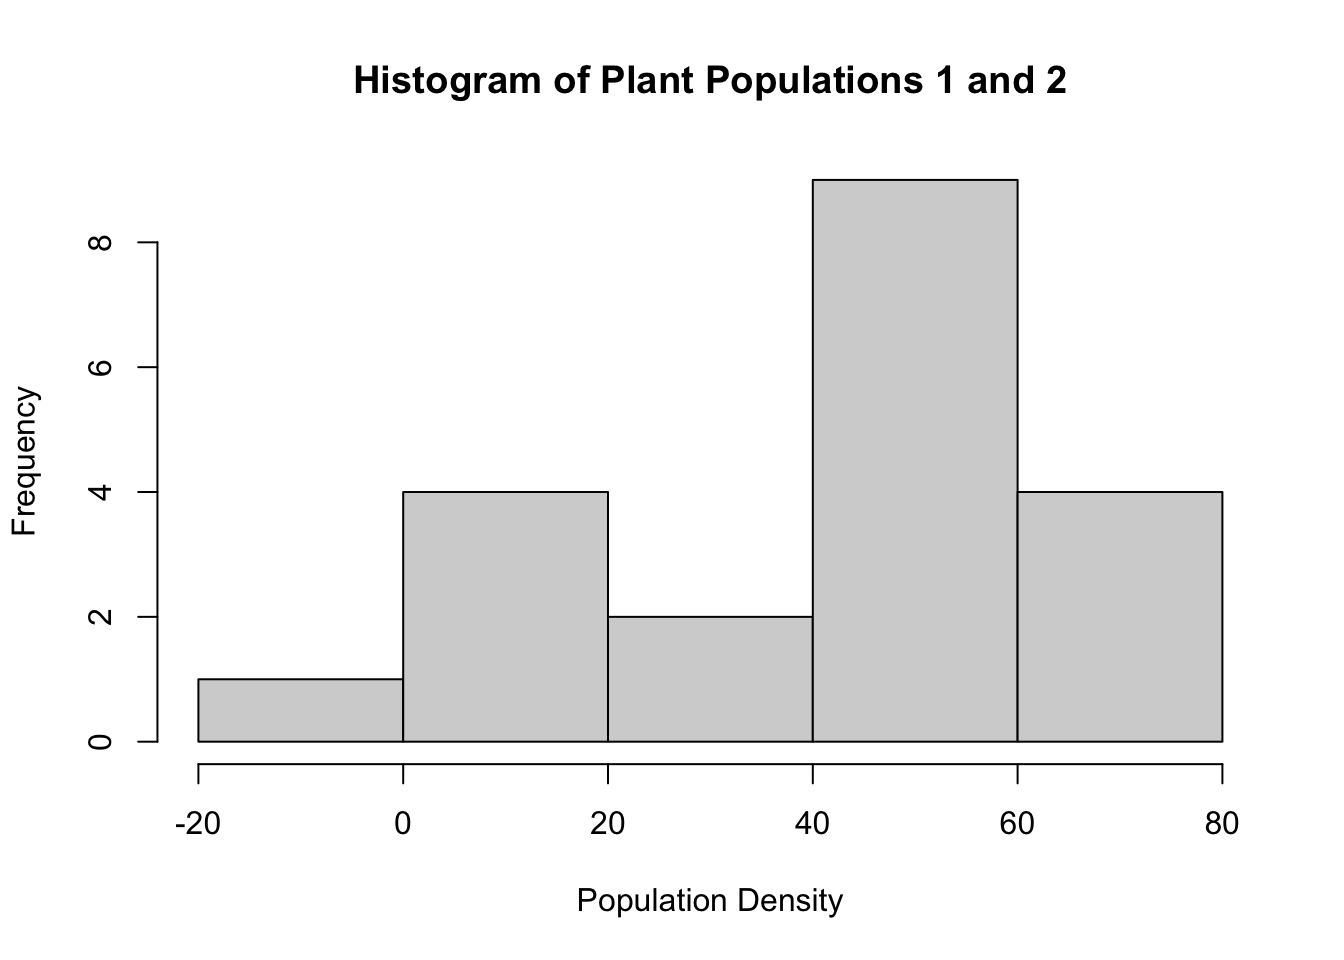
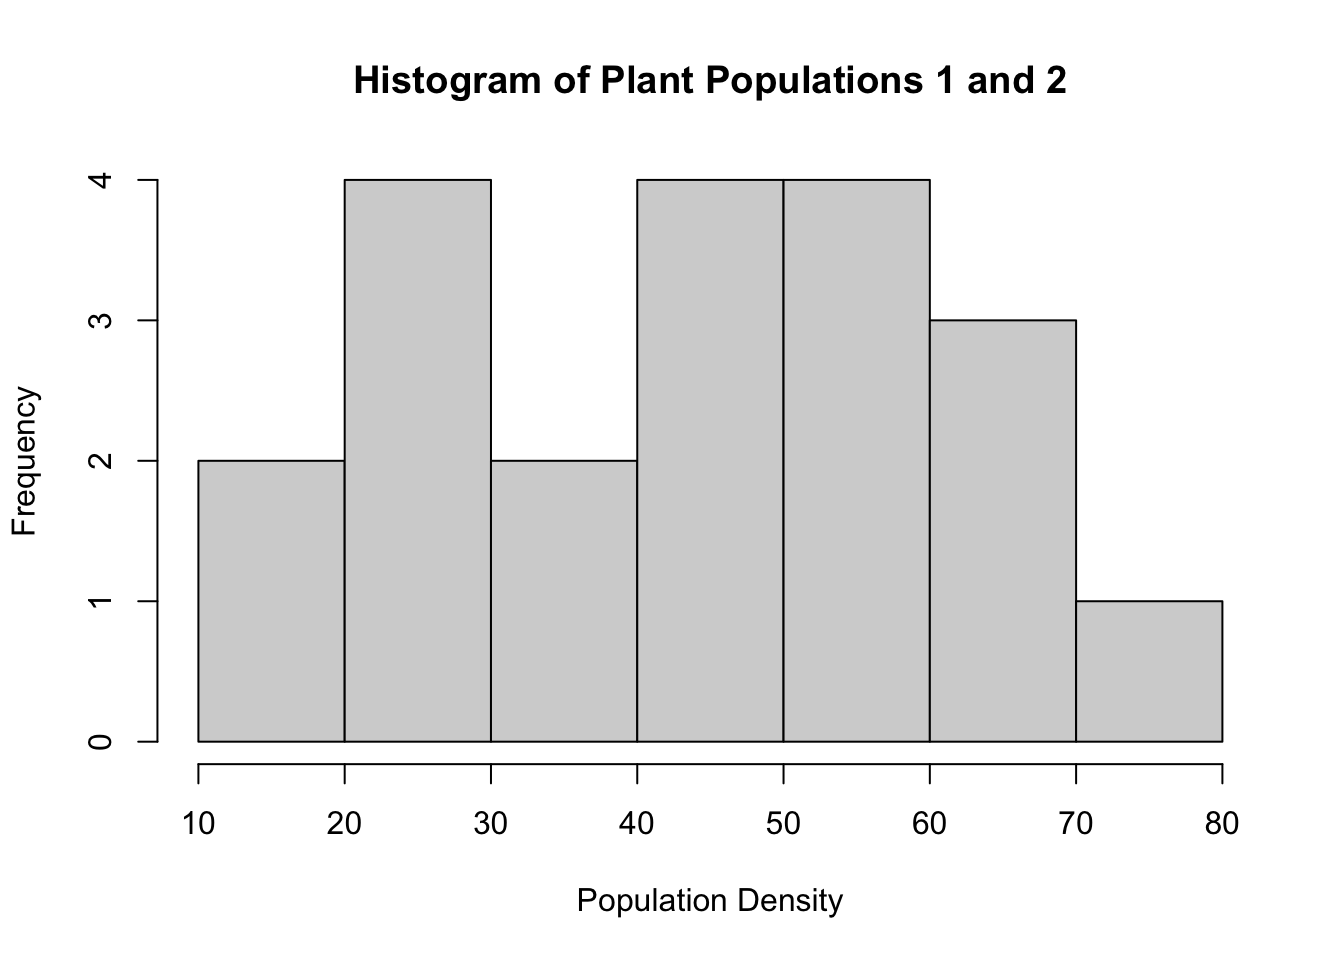
homework 6 and homework links

diff --git a/docs/homework5.html b/docs/homework5.html
@@ -285,19 +285,19 @@ square matrix with these elements. Print out the matrix.</p>
 note how it has changed.</p>
 <pre class="r"><code>print(t(matrix1))</code></pre>
 <pre><code>##      [,1] [,2] [,3]
-## [1,]    7    2    6
-## [2,]    3    9    4
-## [3,]    1    5    8</code></pre>
+## [1,]    6    1    2
+## [2,]    3    9    5
+## [3,]    4    8    7</code></pre>
 <p>Calculate the sum and the mean of the elements in the first row and
 then the last row.</p>
 <pre class="r"><code>mean(matrix1[1,])</code></pre>
-<pre><code>## [1] 3.666667</code></pre>
+<pre><code>## [1] 4.333333</code></pre>
 <pre class="r"><code>sum(matrix1[1,])</code></pre>
-<pre><code>## [1] 11</code></pre>
+<pre><code>## [1] 13</code></pre>
 <pre class="r"><code>mean(matrix1[2,])</code></pre>
-<pre><code>## [1] 5.333333</code></pre>
+<pre><code>## [1] 6</code></pre>
 <pre class="r"><code>sum(matrix1[2,])</code></pre>
-<pre><code>## [1] 16</code></pre>
+<pre><code>## [1] 18</code></pre>
 <p>Read about the eigen() function and use it on your matrix. Look
 carefully at the elements of $values and $vectors in the output. What
 kind of numbers are these?</p>
@@ -305,49 +305,49 @@ kind of numbers are these?</p>
 print(matrix_eigen)</code></pre>
 <pre><code>## eigen() decomposition
 ## $values
-## [1] 15.0+0.000000i  4.5+1.936492i  4.5-1.936492i
+## [1] 15.504256  5.053516  1.442228
 ## 
 ## $vectors
-##              [,1]                  [,2]                  [,3]
-## [1,] 0.3333333+0i  0.2853585+0.3804747i  0.2853585-0.3804747i
-## [2,] 0.6666667+0i -0.6362090+0.0000000i -0.6362090+0.0000000i
-## [3,] 0.6666667+0i  0.4584447-0.3985926i  0.4584447+0.3985926i</code></pre>
+##            [,1]        [,2]       [,3]
+## [1,] -0.4497701 -0.91397383 -0.1365762
+## [2,] -0.7196933  0.39743960 -0.7115224
+## [3,] -0.5289125 -0.08181438  0.6892625</code></pre>
 <p>Dig in with the typeof() function to figure out their type.</p>
 <pre class="r"><code>typeof(matrix_eigen$values)</code></pre>
-<pre><code>## [1] &quot;complex&quot;</code></pre>
+<pre><code>## [1] &quot;double&quot;</code></pre>
 <pre class="r"><code>typeof(matrix_eigen$vectors)</code></pre>
-<pre><code>## [1] &quot;complex&quot;</code></pre>
+<pre><code>## [1] &quot;double&quot;</code></pre>
 <p><u>Question 2:</u> Create a list with the following named
 elements:</p>
 <p>my_matrix, which is a 4 x 4 matrix filled with random uniform
 values</p>
 <pre class="r"><code>my_matrix &lt;- matrix(data=runif(16), nrow=4)
 print(my_matrix)</code></pre>
-<pre><code>##           [,1]       [,2]      [,3]      [,4]
-## [1,] 0.5986630 0.07295954 0.4991994 0.6463780
-## [2,] 0.2466402 0.86540178 0.5887130 0.1806346
-## [3,] 0.9698300 0.57426757 0.3964747 0.9315893
-## [4,] 0.5211286 0.47404587 0.6722006 0.3053773</code></pre>
+<pre><code>##           [,1]      [,2]       [,3]      [,4]
+## [1,] 0.7008155 0.4420031 0.16650708 0.3109693
+## [2,] 0.4269309 0.0419104 0.04525611 0.4891143
+## [3,] 0.9180536 0.7336300 0.81170516 0.1593623
+## [4,] 0.7170330 0.5471026 0.87894588 0.8983267</code></pre>
 <p>my_logical which is a 100-element vector of TRUE or FALSE values. Do
 this efficiently by setting up a vector of random values and then
 applying an inequality to it.</p>
 <pre class="r"><code>my_logical &lt;- (runif(100) &gt; .8)
 print(my_logical)</code></pre>
-<pre><code>##   [1] FALSE FALSE FALSE  TRUE FALSE  TRUE FALSE FALSE FALSE FALSE FALSE FALSE
-##  [13]  TRUE FALSE FALSE FALSE FALSE FALSE FALSE FALSE FALSE FALSE FALSE FALSE
-##  [25] FALSE FALSE FALSE FALSE FALSE FALSE FALSE  TRUE FALSE  TRUE FALSE  TRUE
-##  [37] FALSE  TRUE FALSE FALSE FALSE FALSE FALSE FALSE FALSE FALSE FALSE  TRUE
-##  [49] FALSE FALSE FALSE  TRUE FALSE FALSE  TRUE  TRUE FALSE FALSE FALSE FALSE
-##  [61] FALSE  TRUE FALSE FALSE FALSE FALSE FALSE FALSE FALSE FALSE FALSE  TRUE
-##  [73] FALSE FALSE FALSE FALSE FALSE FALSE FALSE FALSE FALSE FALSE FALSE FALSE
-##  [85] FALSE FALSE  TRUE FALSE FALSE  TRUE FALSE FALSE FALSE FALSE FALSE FALSE
-##  [97] FALSE FALSE FALSE FALSE</code></pre>
+<pre><code>##   [1] FALSE  TRUE FALSE  TRUE FALSE FALSE FALSE  TRUE FALSE FALSE FALSE FALSE
+##  [13] FALSE FALSE  TRUE FALSE  TRUE FALSE FALSE FALSE FALSE FALSE FALSE  TRUE
+##  [25]  TRUE FALSE  TRUE FALSE FALSE FALSE FALSE FALSE FALSE FALSE  TRUE FALSE
+##  [37]  TRUE FALSE FALSE  TRUE FALSE FALSE FALSE FALSE FALSE FALSE FALSE  TRUE
+##  [49] FALSE FALSE FALSE FALSE  TRUE FALSE FALSE  TRUE  TRUE  TRUE  TRUE FALSE
+##  [61] FALSE FALSE FALSE FALSE  TRUE FALSE FALSE FALSE FALSE  TRUE FALSE FALSE
+##  [73] FALSE  TRUE  TRUE FALSE FALSE FALSE FALSE FALSE FALSE FALSE  TRUE FALSE
+##  [85] FALSE FALSE FALSE FALSE FALSE FALSE FALSE FALSE FALSE  TRUE FALSE FALSE
+##  [97]  TRUE FALSE FALSE  TRUE</code></pre>
 <p>my_letters, which is a 26-element vector of all the lower-case
 letters in random order.</p>
 <pre class="r"><code>my_letters &lt;- sample(letters[1:26])
 print(my_letters)</code></pre>
-<pre><code>##  [1] &quot;s&quot; &quot;g&quot; &quot;w&quot; &quot;h&quot; &quot;t&quot; &quot;y&quot; &quot;n&quot; &quot;v&quot; &quot;p&quot; &quot;l&quot; &quot;k&quot; &quot;z&quot; &quot;f&quot; &quot;x&quot; &quot;j&quot; &quot;c&quot; &quot;r&quot; &quot;d&quot; &quot;m&quot;
-## [20] &quot;b&quot; &quot;e&quot; &quot;q&quot; &quot;i&quot; &quot;u&quot; &quot;a&quot; &quot;o&quot;</code></pre>
+<pre><code>##  [1] &quot;g&quot; &quot;b&quot; &quot;p&quot; &quot;x&quot; &quot;v&quot; &quot;d&quot; &quot;c&quot; &quot;w&quot; &quot;r&quot; &quot;n&quot; &quot;t&quot; &quot;z&quot; &quot;j&quot; &quot;h&quot; &quot;s&quot; &quot;f&quot; &quot;i&quot; &quot;y&quot; &quot;l&quot;
+## [20] &quot;k&quot; &quot;a&quot; &quot;o&quot; &quot;q&quot; &quot;u&quot; &quot;e&quot; &quot;m&quot;</code></pre>
 <p>Create a new list, which has the element[2,2] from the matrix, the
 second element of the logical vector, and the second element of the
 letters vector.</p>
@@ -367,7 +367,7 @@ atomic vector with the c() function. What is the data type of this
 vector?</p>
 <pre class="r"><code>combined_elements_vector &lt;- c(new_list[[1]], new_list[[2]], new_list[[3]])
 print(combined_elements_vector)</code></pre>
-<pre><code>## [1] &quot;0.865401779301465&quot; &quot;FALSE&quot;             &quot;g&quot;</code></pre>
+<pre><code>## [1] &quot;0.0419104006141424&quot; &quot;TRUE&quot;               &quot;b&quot;</code></pre>
 <pre class="r"><code>typeof(combined_elements_vector)</code></pre>
 <pre><code>## [1] &quot;character&quot;</code></pre>
 <p><u>Question 3:</u> Create a data frame with the two variables (=
@@ -382,7 +382,7 @@ random rows and replace the numerical values in those rows with NA.</p>
 <p>For the first variable, write a single line of R code to identify
 which rows have the missing values.</p>
 <pre class="r"><code>print(which(is.na(dataframe$my_unis)))</code></pre>
-<pre><code>## [1] 4 7 9</code></pre>
+<pre><code>## [1] 5 7 9</code></pre>
 <p>Re-order the entire data frame to arrange the second variable in
 alphabetical order</p>
 <pre class="r"><code>dataframe[order(dataframe$my_letters),2]</code></pre>
@@ -390,7 +390,7 @@ alphabetical order</p>
 ## [20] &quot;T&quot; &quot;U&quot; &quot;V&quot; &quot;W&quot; &quot;X&quot; &quot;Y&quot; &quot;Z&quot;</code></pre>
 <p>Calculate the column mean for the first variable.</p>
 <pre class="r"><code>mean(dataframe$my_unis, na.rm=TRUE)</code></pre>
-<pre><code>## [1] 5.210672</code></pre>
+<pre><code>## [1] 5.019567</code></pre>
 
 
 

diff --git a/docs/homework6.html b/docs/homework6.html
@@ -281,42 +281,42 @@ northeast.</p>
 plantpopulation2 &lt;- rnorm(n=10, mean = 29, sd = 20)
 summary(plantpopulation1)</code></pre>
 <pre><code>##    Min. 1st Qu.  Median    Mean 3rd Qu.    Max. 
-##   42.03   53.93   58.38   58.40   61.16   75.38</code></pre>
+##   42.73   45.39   54.59   54.92   63.21   71.76</code></pre>
 <pre class="r"><code>summary(plantpopulation2)</code></pre>
 <pre><code>##    Min. 1st Qu.  Median    Mean 3rd Qu.    Max. 
-##  -17.00   11.41   22.39   23.20   42.63   48.36</code></pre>
+##   17.36   25.74   28.68   32.72   35.08   62.78</code></pre>
 <p>Putting it into a data frame:</p>
 <pre class="r"><code>Plant_Populations &lt;- c(plantpopulation1, plantpopulation2)
 Group_Name &lt;- c(rep(&quot;Plant_Population_1&quot;, length(plantpopulation1)),rep(&quot;Plant_Population_2&quot;,length(plantpopulation2)))
 plant_df &lt;- data.frame(Plant_Populations, Group_Name)
 print(plant_df)</code></pre>
 <pre><code>##    Plant_Populations         Group_Name
-## 1          75.382099 Plant_Population_1
-## 2          61.301621 Plant_Population_1
-## 3          67.559977 Plant_Population_1
-## 4          55.914632 Plant_Population_1
-## 5          56.801618 Plant_Population_1
-## 6          60.734744 Plant_Population_1
-## 7          53.271659 Plant_Population_1
-## 8          42.032180 Plant_Population_1
-## 9          51.025192 Plant_Population_1
-## 10         59.960825 Plant_Population_1
-## 11        -17.003907 Plant_Population_2
-## 12         37.141989 Plant_Population_2
-## 13         48.363532 Plant_Population_2
-## 14         10.253705 Plant_Population_2
-## 15         46.989853 Plant_Population_2
-## 16         26.833946 Plant_Population_2
-## 17         44.460685 Plant_Population_2
-## 18         17.937824 Plant_Population_2
-## 19         14.873522 Plant_Population_2
-## 20          2.122048 Plant_Population_2</code></pre>
+## 1           47.25340 Plant_Population_1
+## 2           64.85456 Plant_Population_1
+## 3           44.76664 Plant_Population_1
+## 4           64.29582 Plant_Population_1
+## 5           57.78755 Plant_Population_1
+## 6           59.94322 Plant_Population_1
+## 7           44.38812 Plant_Population_1
+## 8           51.39410 Plant_Population_1
+## 9           71.75648 Plant_Population_1
+## 10          42.73088 Plant_Population_1
+## 11          31.23931 Plant_Population_2
+## 12          62.77712 Plant_Population_2
+## 13          25.32728 Plant_Population_2
+## 14          36.35858 Plant_Population_2
+## 15          51.81686 Plant_Population_2
+## 16          28.57665 Plant_Population_2
+## 17          17.36211 Plant_Population_2
+## 18          26.98898 Plant_Population_2
+## 19          28.77474 Plant_Population_2
+## 20          17.95999 Plant_Population_2</code></pre>
 <p>Analyzing the data by obtaining the mean and standard deviations from
 both plantpopulation1 and plantpopulation2.</p>
 <pre class="r"><code>mean(plant_df$Plant_Populations)</code></pre>
-<pre><code>## [1] 40.79789</code></pre>
+<pre><code>## [1] 43.81762</code></pre>
 <pre class="r"><code>sd(plant_df$Plant_Populations)</code></pre>
-<pre><code>## [1] 24.19825</code></pre>
+<pre><code>## [1] 16.63665</code></pre>
 <p>Plotting the data</p>
 <pre class="r"><code>boxplot(Plant_Populations~Group_Name,data=plant_df, main=&quot;Alpine Plant Population Density&quot;,
         xlab=&quot;Plant Groups&quot;, ylab=&quot;Population Size&quot;)</code></pre>
@@ -336,16 +336,16 @@ for (i in n_iterations) {
   cat(&quot;Iteration=&quot;,i,&quot;P-value=&quot;)
 print(test_result$p.value)
 }</code></pre>
-<pre><code>## Iteration= 1 P-value=[1] 0.0004555947
-## Iteration= 2 P-value=[1] 0.0004555947
-## Iteration= 3 P-value=[1] 0.0004555947
-## Iteration= 4 P-value=[1] 0.0004555947
-## Iteration= 5 P-value=[1] 0.0004555947
-## Iteration= 6 P-value=[1] 0.0004555947
-## Iteration= 7 P-value=[1] 0.0004555947
-## Iteration= 8 P-value=[1] 0.0004555947
-## Iteration= 9 P-value=[1] 0.0004555947
-## Iteration= 10 P-value=[1] 0.0004555947</code></pre>
+<pre><code>## Iteration= 1 P-value=[1] 0.001040613
+## Iteration= 2 P-value=[1] 0.001040613
+## Iteration= 3 P-value=[1] 0.001040613
+## Iteration= 4 P-value=[1] 0.001040613
+## Iteration= 5 P-value=[1] 0.001040613
+## Iteration= 6 P-value=[1] 0.001040613
+## Iteration= 7 P-value=[1] 0.001040613
+## Iteration= 8 P-value=[1] 0.001040613
+## Iteration= 9 P-value=[1] 0.001040613
+## Iteration= 10 P-value=[1] 0.001040613</code></pre>
 <ul>
 <li>Not sure why, but all of my values are the same</li>
 </ul>

diff --git a/docs/homework4.html b/docs/homework4.html
@@ -322,12 +322,12 @@ that has been mapped). Using one of R’s inverse trigonometry functions
 coordinates.</p>
 <pre class="r"><code>cartesian_coords &lt;- runif(2)
 print(cartesian_coords)</code></pre>
-<pre><code>## [1] 0.3273265 0.8224161</code></pre>
+<pre><code>## [1] 0.2669185 0.5152299</code></pre>
 <pre class="r"><code>r &lt;- sqrt(cartesian_coords[1])^2 + (cartesian_coords[2])^2
 theta &lt;- atan(cartesian_coords[2]/cartesian_coords[1])
 polar_coords &lt;- c(r, theta)
 print(polar_coords)</code></pre>
-<pre><code>## [1] 1.003695 1.192010</code></pre>
+<pre><code>## [1] 0.5323804 1.0928076</code></pre>
 <p><u>Question 4:</u> Create a vector queue &lt;- c(“sheep”, “fox”,
 “owl”, “ant”) where queue represents the animals that are lined up to
 enter Noah’s Ark, with the sheep at the front of the line. Using R
